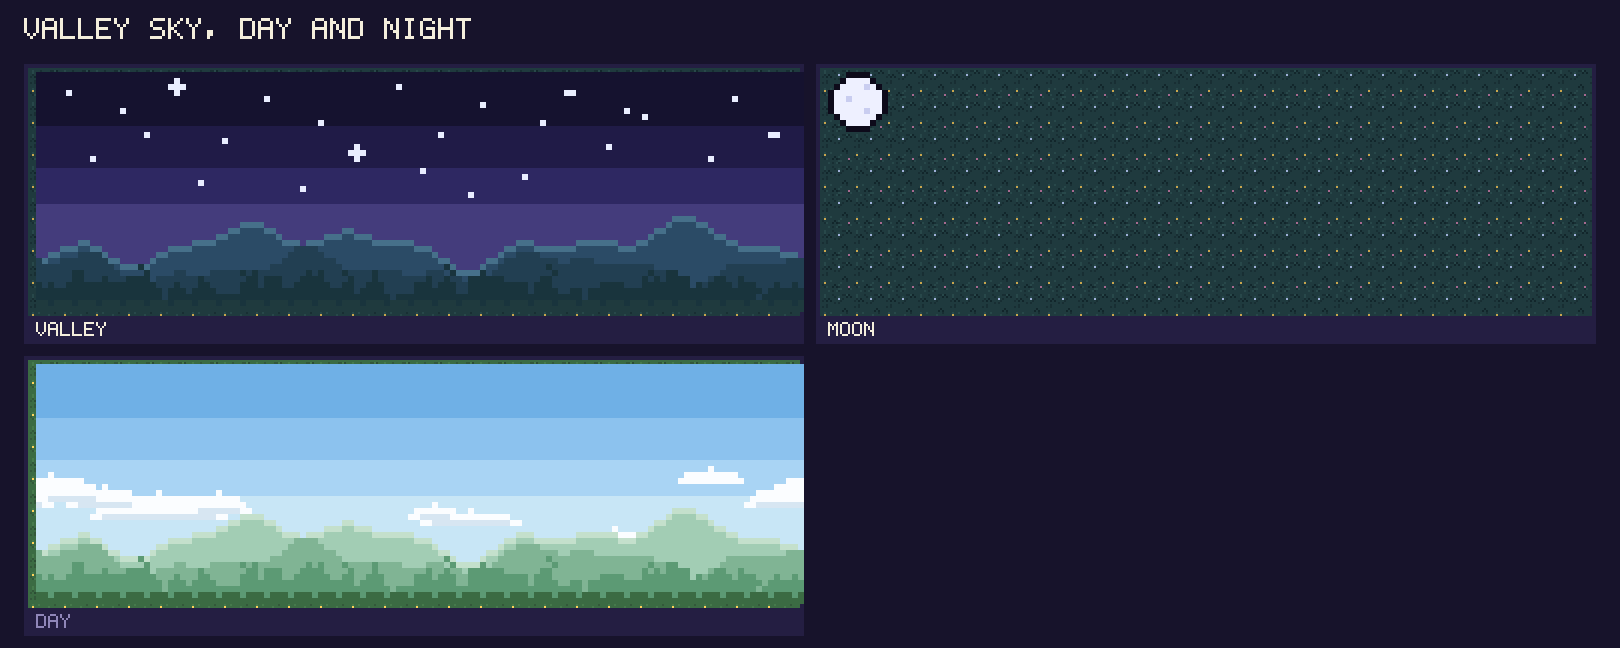
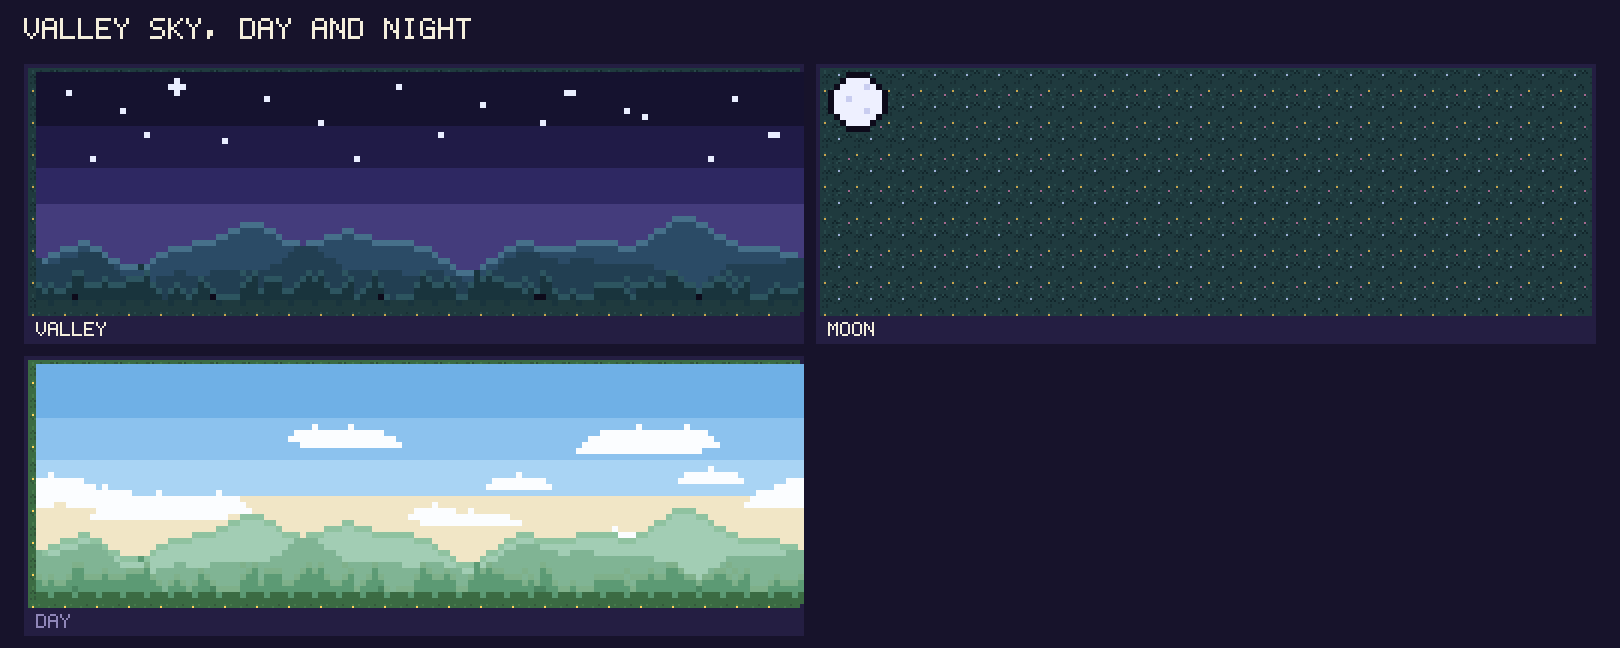
valley-sky: widen sprite cap to 128, seam variants, calmer treeline, more clouds
Claude-Session: https://claude.ai/code/session_01TqJ8tUAM4Muj4eb7wE4uc8

diff --git a/apps/activity/src/sprites/concepts/valley-sky.ts b/apps/activity/src/sprites/concepts/valley-sky.ts
@@ -5,9 +5,9 @@
  * one flat colour (the scene repeats it upward behind the HUD); its bottom rows are far hills and a hazy
  * treeline that end in the grass's own colours, so the strip runs into the meadow. No landmark, no place.
  * The main palette is night (4 hard bands, stars); `alts.day` recolours the same pixels: the star keys
- * (`s t u`) become the band colour, and the cloud keys (`q r w`), which are band colours at night, become
- * cloud white and shade. Keys: `A B C D` sky bands top to horizon, `h m i j g` far hill, its rim, mid hill,
- * treeline and the grass colour of the last rows. The optional `moon` (10 x 10) is placed once by the scene.
+ * (`s t`) become the band colour, and the cloud keys (`p q r`), which are band colours at night, become
+ * cloud white. Keys: `A B C D` sky bands top to horizon, `h m i j n g` far hill, its rim, mid hill,
+ * treeline, its lit rim and the grass colour of the last rows. The optional `moon` (10 x 10) is placed once by the scene.
  * Generated by a script from wrapped sine hills, kept as data like any other sprite.
  */
 import type { SpriteDef } from '../sprite-data';
@@ -25,34 +25,34 @@ const VALLEY_ROWS: readonly string[] = [
   'AAAAAAAAAAAAAAAAAAAAAAAAAAAAAAAAAAAAAAAAAAAAAAAAAAAAAAAAAAAAAAAAAAAAAAAAAAAAAAAAAAAAAAAAAAAAAAAAAAAAAsAAAAAAAAAAAAAAAAAAAAAAAAAA',
   'AAAAAAAAAAAAAAAAAAAAAAAAAAAAAAAAAAAAAAAAAAAAAAAsAAAAAAAAAAAAAAAAAAAAAAAAAAAAAAAAAAAAsAAAAAAAAAAAAAAAAAAAAAAAAAAAAAAAAAAAAAAAAAAA',
   'BBBBBBBBBBBBBBBBBBBBBBBBBBBBBBBBBBBBBBBBBBBBBBBBBBBBBBBBBBBBBBBBBBBBBBBBBBBBBBBBBBBBBBBBBBBBBBBBBBBBBBBBBBBBBBBBBBBBBBBBBBBBBBBB',
-  'BBBBBBBBBBBBBBBBBBtBBBBBBBBBBBBBBBBBBBBBBBBBBBBBBBBBBBBBBBBBBBBBBBBtBBBBBBBBBBBBBBBBBBBBBBBBBBBBBBBBBBBBBBBBBBBBBBBBBBBBBBttBBBB',
-  'BBBBBBBBBBBBBBBBBBBBBBBBBBBBBBBtBBBBBBBBBBBBBBBBBBBBBBBBBBBBBBBBBBBBBBBBBBBBBBBBBBBBBBBBBBBBBBBBBBBBBBBBBBBBBBBBBBBBBBBBBBBBBBBB',
-  'BBBBBBBBBBBBBBBBBBBBBBBBBBBBBBBBBBBBBBBBBBBBBBBBBBBBBtBBBBBBBBBBBBBBBBBBBBBBBBBBBBBBBBBBBBBBBBBtBBBBBBBBBBBBBBBBBBBBBBBBBBBBBBBB',
-  'BBBBBBBBBBBBBBBBBBBBBBBBBBBBBBBBBBBBBBBBBBBBBBBBBBBBtttBBBBBBBBBBBBBBBBBBBBBBBBBBBBBBBBBBBBBBBBBBBBBBBBBBBBBBBBBBBBBBBBBBBBBBBBB',
-  'BBBBBBBBBtBBBBBBBBBBBBBBBBBBBBBBBBBBBBBBBBBBBBBBBBBBBtBBBBBBBBBBBBBBBBBBBBBBBBBBBBBBBBBBBBBBBBBBBBBBBBBBBBBBBBBBtBBBBBBBBBBBBBBB',
+  'BBBBBBBBBBBBBBBBBBtBBBBBBBBBBBBBBBBBBBBBBBBBBBpBBBBBpBBBBBBBBBBBBBBtBBBBBBBBBBBBBBBBBBBBBBBBBBBBBBBBpBBBBBBBpBBBBBBBBBBBBBttBBBB',
+  'BBBBBBBBBBBBBBBBBBBBBBBBBBBBBBBtBBBBBBBBBBBpppppppppppppppBBBBBBBBBBBBBBBBBBBBBBBBBBBBBBBBBBBBppppppppppppppppppBBBBBBBBBBBBBBBB',
+  'BBBBBBBBBBBBBBBBBBBBBBBBBBBBBBBBBBBBBBBBBBppppppppppppppppppBBBBBBBBBBBBBBBBBBBBBBBBBBBBBBBBpppppppppppppppppppppBBBBBBBBBBBBBBB',
+  'BBBBBBBBBBBBBBBBBBBBBBBBBBBBBBBBBBBBBBBBBBBBpppppppppppppppppBBBBBBBBBBBBBBBBBBBBBBBBBBBBBBpppppppppppppppppppppppBBBBBBBBBBBBBB',
+  'BBBBBBBBBtBBBBBBBBBBBBBBBBBBBBBBBBBBBBBBBBBBBBBBBBBBBtBBBBBBBBBBBBBBBBBBBBBBBBBBBBBBBBBBBBpppppppppppppppppppppBtBBBBBBBBBBBBBBB',
   'BBBBBBBBBBBBBBBBBBBBBBBBBBBBBBBBBBBBBBBBBBBBBBBBBBBBBBBBBBBBBBBBBBBBBBBBBBBBBBBBBBBBBBBBBBBBBBBBBBBBBBBBBBBBBBBBBBBBBBBBBBBBBBBB',
-  'CCCCCCCCCCCCCCCCCCCCCCCCCCCCCCCCCCCCCCCCCCCCCCCCCCCCCCCCCCCCCCCCuCCCCCCCCCCCCCCCCCCCCCCCCCCCCCCCCCCCCCCCCCCCCCCCCCCCCCCCCCCCCCCC',
-  'CCCCCCCCCCCCCCCCCCCCCCCCCCCCCCCCCCCCCCCCCCCCCCCCCCCCCCCCCCCCCCCCCCCCCCCCCCCCCCCCCuCCCCCCCCCCCCCCCCCCCCCCCCCCCCCCqCCCCCCCCCCCCCCC',
-  'CCqCCCCCCCCCCCCCCCCCCCCCCCCuCCCCCCCCCCCCCCCCCCCCCCCCCCCCCCCCCCCCCCCCCCCCCCCCCCCCCCCCCCCCCCCCCCCCCCCCCCCCCCCCqqqqqqqqqCCCCCCCCCCC',
-  'qqqqqqqqCCCCCCCCCCCCCCCCCCCCCCCCCCCCCCCCCCCCuCCCCCCCCCCCCCCCCCCCCCCCCCCCCCCCCCCCCCCCCCCCCCCCCCCCCCCCCCCCCCCqqqqqqqqqqqCCCCCCCqqq',
-  'qqqqqqqqqqCqCCCCCCCCCCCCCCCCCCCCCCCCCCCCCCCCCCCCCCCCCCCCCCCCCCCCCCCCCCCCuCCCCCCCCCCCCCCCCCCCCCCCCCCCCCCCCCCCCCCCCCCCCCCCCCCqqqqq',
+  'CCCCCCCCCCCCCCCCCCCCCCCCCCCCCCCCCCCCCCCCCCCCCCCCCCCCCCCCCCCCCCCCCCCCCCCCCCCCCCCCCCCCCCCCCCCCCCCCCCCCCCCCCCCCCCCCCCCCCCCCCCCCCCCC',
+  'CCCCCCCCCCCCCCCCCCCCCCCCCCCCCCCCCCCCCCCCCCCCCCCCCCCCCCCCCCCCCCCCCCCCCCCCCCCCCCCCCCCCCCCCCCCCCCCCCCCCCCCCCCCCCCCCqCCCCCCCCCCCCCCC',
+  'CCqCCCCCCCCCCCCCCCCCCCCCCCCCCCCCCCCCCCCCCCCCCCCCCCCCCCCCCCCCCCCCCCCCCCCCCCCCCCCCqCCCCCCCCCCCCCCCCCCCCCCCCCCCqqqqqqqqqCCCCCCCCCCC',
+  'qqqqqqqqCCCCCCCCCCCCCCCCCCCCCCCCCCCCCCCCCCCCCCCCCCCCCCCCCCCCCCCCCCCCCCCCCCCCqqqqqqqqqCCCCCCCCCCCCCCCCCCCCCCqqqqqqqqqqqCCCCCCCqqq',
+  'qqqqqqqqqqCqCCCCCCCCCCCCCCCCCCCCCCCCCCCCCCCCCCCCCCCCCCCCCCCCCCCCCCCCCCCCCCCqqqqqqqqqqqCCCCCCCCCCCCCCCCCCCCCCCCCCCCCCCCCCCCCqqqqq',
   'qqqqqqqqqqqqqqqqCCCCqCCCCCCCCCqCCCCCCCCCCCCCCCCCCCCCCCCCCCCCCCCCCCCCCCCCCCCCCCCCCCCCCCCCCCCCCCCCCCCCCCCCCCCCCCCCCCCCCCCCqqqqqqqq',
-  'rrwwwwwwwwrrrrrrrrrrrrrrrrrrrrrrrrDDDDDDDDDDDDDDDDDDDDDDDDDDDDDDDDDDDDDDDDDDDDDDDDDDDDDDDDDDDDDDDDDDDDDDDDDDDDDDDDDDDDDrrrrrrrrr',
-  'wrrDDrrwwwwwwwwwrrrrrrrrrrrrrrrrrrrDDDDDDDDDDDDDDDDDDDDDDDDDDDDDDDrDDDDDDDDDDDDDDDDDDDDDDDDDDDDDDDDDDDDDDDDDDDDDDDDDDDrrwwwwwwww',
-  'DDDDDDDDDDrrrrrrrrrrrrrrrrrwwwwwwwrrDDDDDDDDDDDDDDDDDDDDDDDDDDDrrrrrrrDDrDDDDDDDDDDDDDDDDDDDDDDDDDDDDDDDDDmmmmDDDDDDDDDDDDDDDDDD',
-  'DDDDDDDDDrrwwwwwwwwwwwwwwwwwwwrrDDmmmmDDDDDDDDDDDDDDDDDDDDDDDDrrwwwwwrrrrrrrrrrDDDDDDDDDDDDDDDDDDDDDDDDDDmhhhhmmDDDDDDDDDDDDDDDD',
-  'DDDDDDDDDDDDDDDDDDDDDDDDDDDDDDDDmmhhhhmmDDDDDDDDDDDmmDDDDDDDDDDDrrwwwwwwwwwwwwwrrDDDDDDDDDDDDDDDDDDDDDDmmhhhhhhhmDDDDDDDDDDDDDDD',
+  'rrrrrrrrrrrrrrrrrrrrrrrrrrrrrrrrrrDDDDDDDDDDDDDDDDDDDDDDDDDDDDDDDDDDDDDDDDDDDDDDDDDDDDDDDDDDDDDDDDDDDDDDDDDDDDDDDDDDDDDrrrrrrrrr',
+  'rrrDDrrrrrrrrrrrrrrrrrrrrrrrrrrrrrrDDDDDDDDDDDDDDDDDDDDDDDDDDDDDDDrDDDDDDDDDDDDDDDDDDDDDDDDDDDDDDDDDDDDDDDDDDDDDDDDDDDrrrrrrrrrr',
+  'DDDDDDDDDDrrrrrrrrrrrrrrrrrrrrrrrrrrDDDDDDDDDDDDDDDDDDDDDDDDDDDrrrrrrrDDrDDDDDDDDDDDDDDDDDDDDDDDDDDDDDDDDDmmmmDDDDDDDDDDDDDDDDDD',
+  'DDDDDDDDDrrrrrrrrrrrrrrrrrrrrrrrDDmmmmDDDDDDDDDDDDDDDDDDDDDDDDrrrrrrrrrrrrrrrrrDDDDDDDDDDDDDDDDDDDDDDDDDDmhhhhmmDDDDDDDDDDDDDDDD',
+  'DDDDDDDDDDDDDDDDDDDDDDDDDDDDDDDDmmhhhhmmDDDDDDDDDDDmmDDDDDDDDDDDrrrrrrrrrrrrrrrrrDDDDDDDDDDDDDDDDDDDDDDmmhhhhhhhmDDDDDDDDDDDDDDD',
   'DDDDDDDDDDDDDDDDDDDDDDDDDDDDDDmmhhhhhhhhmDDDDDDDmmmhhmmmDDDDDDDDDDDDDDDDDDDDDDDDDDDDDDDDDDDDDDDDrDDDDDmhhhhhhhhhhmmDDDDDDDDDDDDD',
   'DDDDDDDmmDDDDDDDDDDDDDDDDDmmmmhhhhhhhhhhhmmmDmmmhhhhhhhhmmmmmmmDDDDDDDDDDDDDDDDDmmmDDDDDDDmmmmmmmrrrmmhhhhhhhhhhhhhmmDDDDDDDDDDD',
   'DDDDmmmhhmmDDDDDDDDDDDmmmmhhhhhhhhhhhhhhhhhiiiihhhhhhhhhhhhhhhhmmmDDDDDDDDDDDDmmhhhmmmmmmmhhhhhhhmmmhhhhhhhhhhhhhhhhhmmmmmmmDDDD',
   'DDmmhhhiiiimDDDDDDDDmmhhhhhhhhhhhhhhhhhhhhiiiiiihhhhhhhhhhhhhhhhhhmDDDDDDDDDDmhhiiiihhhhhhhhhhhhhhhhhhhhhhhhhhhhhhhhhhhhhhhhmmmD',
   'imhhiiiiiiiimmDDDDDmhhhhhhhhhhhhhhhhhhhhhiiiiiiiiihhhhhhhhhhhhhhhhhmmDDDDDDmmhiiiiiiiiihhiiiihhhhhhhhhhhhhhhhhhhhhhhhhhhhhhhhiii',
-  'iiiiiiiiiiiiihmmmjmhhhhhhhhhhhhhhhhhhhhiiiiiiiiiiiihhhhhhhhhhhhhhhhhjmDDDDmhhiiiiiiiijiiiiiiiiiiiiiiiiihhhhhhhhhhhhiiiiiiiiiiiii',
-  'iiiiiijjiiiiiihhhhjhhhhiihhhhiiiiijijiiiiiiiijijiiijiiiijiiiihhhhiiihjmmmmjhiiiiiiiiiijiiiiiiiiiiiiiiijiijjhhhhhhhiiiiiiiiiiiiii',
-  'iiiiiijjiiijiiijjjjhiiiiiiijiiiiiiijjijjjiiijjjjiiiijiiijiiiiiiiijiijiihjjjjjjiiiiiijjiiiiiiiiiiiiiiijijijjjjhhhijjiijiiiiiiiiii',
-  'jijiijjjjjjjjjjjjjjjiiijiiijjiiiiijjjijjjiijjjjjjiijjiijjjiiiiijjjijjjiijjjjjjjjjjijjjiiiiiiiijjjjiiijjjjjjjjhjijjjjijjjiiijiiji',
-  'jjjjjjjjjjjjjjjjjjjjjijjjijjjjiiiijjjjjjjjjjjjjjjjjjjijjjjiiiiijjjjjjjiijjjjjjjjjjijjjjiijjijjjjjjjjjjjjjjjjjjjjjjjjjjjjjijjjjjj',
-  'jjjjjjjjjjjjjjjjjjjjjijjjjjjjjjjjjjjjjjjjjjjjjjjjjjjjjjjjjjijjjjjjjjjjjjjjjjjjjjjjjjjjjjjjjijjjjjjjjjjjjjjjjjjjjjjjjjjjjijjjjjjj',
+  'iiiiiiiiiiiiihmmmjmhhhhhhhhhhhhhhhhhhhhiiiiiiiiiiiihhhhhhhhhhhhhhhhhhmDDDDmhhiiiiiiiiiiiiiiiiiiiiiiiiiihhhhhhhhhhhhiiiiiiiiiiiii',
+  'iiiiiinniiiiiihhhhnhhhhiihhhhiiiiininiiiiiiiininiiiniiiiniiiihhhniiihhmmmjhniiiiiiiiniiiiiiiiiiiiiiiiiiiinnhhhhhhhiniiiiiiiiiiii',
+  'iiiiiijjiiiniiinnnjhiiiiiiiniiiiiiinjinnniiinjnjiiiiniiijiiiiiiijniiniihhjnjnniiiniijniiiiiiiiiiiiniiiniijjnhhhhinnininiiiiiiiii',
+  'niniinjjnnnjnnnjjjjniiiniiijniiiiinjjijjjiinjjjjniinjiinjniiiiinjjnnjniinjjjjjnnninijjiiiiiiinnnnninnnjnnjjjnnhnnjjninjiiiiniiin',
+  'jnjnnjjjjjjjjjjjjjjjninjninjjniiiijjjnjjjnnjjjjjjnnjjinjjjiiiiijjjjjjjiijjjjjjjjjnjnjjniiniiijjjjjnijjjjjjjjjjnjjjjjnjjiiinjnnnj',
+  'jjjjjjkjjjjjjjjjjjjjjijjjnjjjknnnnjjjjjjjjjjjjjjjjjjjnjjjkninnnjjjjjjjnnjjjjjjjjjjjkkjjnnjnnnjjjjjjnjjjjjjjjjjkjjjjjjjjnnnjjjjjj',
   'ggjgggjgggjgggjgggjgggjgggjgggjgggjgggjgggjgggjgggjgggjgggjgggjgggjgggjgggjgggjgggjgggjgggjgggjgggjgggjgggjgggjgggjgggjgggjgggjg',
   'gggggggggggggggggggggggggggggggggggggggggggggggggggggggggggggggggggggggggggggggggggggggggggggggggggggggggggggggggggggggggggggggg',
 ];
@@ -64,33 +64,35 @@ const VALLEY_PALETTE: Readonly<Record<string, string>> = {
   D: '#443c7c',
   s: '#e9edff',
   t: '#e9edff',
-  u: '#e9edff',
   q: '#2e2862',
   r: '#443c7c',
-  w: '#443c7c',
+  p: '#201b47',
+  n: '#2d5560',
   m: '#46708a',
   h: '#2b4b66',
   i: '#223f52',
   j: '#19343d',
   g: '#1f3a3e',
+  k: '#0d0a1a',
 };
 
 const VALLEY_DAY: Readonly<Record<string, string>> = {
   A: '#6fb0e6',
   B: '#8cc2ee',
   C: '#a9d4f4',
-  D: '#c8e6f6',
+  D: '#f1e6c6',
   s: '#6fb0e6',
   t: '#8cc2ee',
-  u: '#a9d4f4',
   q: '#fbfdff',
   r: '#fbfdff',
-  w: '#d7e6f2',
-  m: '#c4e0cc',
+  p: '#fbfdff',
+  n: '#7fb08a',
+  m: '#8fc2a0',
   h: '#a2cdb4',
   i: '#80b494',
   j: '#5c9a74',
   g: '#3b6b43',
+  k: '#4a8560',
 };
 
 const MOON_ROWS: readonly string[] = [
@@ -118,8 +120,8 @@ const NIGHT_GRASS: Readonly<Record<string, string>> = {
 };
 
 const VALLEY: SpriteDef = { palette: VALLEY_PALETTE, rows: VALLEY_ROWS };
-/** The strip repeated three times sideways, to judge the seam and the repeat. */
-const TILED_ROWS = VALLEY_ROWS.map((r) => r + r + r);
+/** The last 32 columns then the first 32, so the join of two repeats is in the middle of the view. */
+const SEAM_ROWS = VALLEY_ROWS.map((r) => r.slice(96) + r.slice(0, 32));
 
 export const VALLEY_SKY_CONCEPTS: ConceptSet = {
   id: 'valley-sky',
@@ -129,7 +131,7 @@ export const VALLEY_SKY_CONCEPTS: ConceptSet = {
   status: 'draft',
   notes: [
     "Used by the valley prototype's place screens (`apps/activity/src/proto/valley/glow-scene-art.ts`, `skyPlacements`, poster mode `sky`, branch `ccr-93a1de17-yutb1a`).",
-    'One strip, 128 x 40, tiles sideways (see the `tiled` and `tiled-day` rows: the join is at x 128 and 256). Top row is one flat colour, repeat it upward behind the HUD. Bottom row is the grass colour of the world-map tile.',
+    'One strip, 128 x 40, tiles sideways (see the `seam` and `seam-day` rows: the join is in the middle). Top row is one flat colour, repeat it upward behind the HUD. Bottom row is the grass colour of the world-map tile.',
     'Main palette is night (4 bands, stars), `alts.day` is the same pixels: stars vanish into the band, clouds appear. Clouds sit across the seam on purpose. The optional `moon` sprite is placed once by the scene, never tiled.',
     'Per-location variants (forest, coast, mountains) later: same bands, a different horizon in the bottom rows.',
   ],
@@ -144,8 +146,8 @@ export const VALLEY_SKY_CONCEPTS: ConceptSet = {
       sprite: VALLEY,
       alts: { day: VALLEY_DAY },
       variants: {
-        tiled: { palette: VALLEY_PALETTE, rows: TILED_ROWS },
-        'tiled-day': { palette: { ...VALLEY_PALETTE, ...VALLEY_DAY }, rows: TILED_ROWS },
+        seam: { palette: VALLEY_PALETTE, rows: SEAM_ROWS },
+        'seam-day': { palette: { ...VALLEY_PALETTE, ...VALLEY_DAY }, rows: SEAM_ROWS },
       },
     },
     moon: {

diff --git a/apps/activity/src/sprites/sprite-data.ts b/apps/activity/src/sprites/sprite-data.ts
@@ -29,7 +29,8 @@ interface ParsedSprite {
 
 const TRANSPARENT = '.';
 const COLOUR = /^#(?:[0-9a-fA-F]{3}|[0-9a-fA-F]{6})$/;
-const MAX_SIZE = 64;
+const MAX_WIDTH = 128;
+const MAX_HEIGHT = 64;
 
 export class SpriteError extends Error {}
 
@@ -42,8 +43,8 @@ export function spriteSize(def: SpriteDef): { width: number; height: number } {
 /** Throws a `SpriteError` when the data is not a well-formed sprite (of `size`, when given). */
 export function validateSprite(def: SpriteDef, size?: { width: number; height: number }): void {
   if (def.rows.length === 0) throw new SpriteError('Sprite has no rows.');
-  if (def.rows.length > MAX_SIZE)
-    throw new SpriteError(`Sprite is taller than ${String(MAX_SIZE)}.`);
+  if (def.rows.length > MAX_HEIGHT)
+    throw new SpriteError(`Sprite is taller than ${String(MAX_HEIGHT)}.`);
   const rowWidth = def.rows[0]?.length ?? 0;
   if (rowWidth === 0) throw new SpriteError('Sprite rows are empty.');
   for (const [y, row] of def.rows.entries()) {
@@ -68,7 +69,7 @@ export function validateSprite(def: SpriteDef, size?: { width: number; height: n
     }
   }
   const actual = spriteSize(def);
-  if (actual.width > MAX_SIZE) throw new SpriteError(`Sprite is wider than ${String(MAX_SIZE)}.`);
+  if (actual.width > MAX_WIDTH) throw new SpriteError(`Sprite is wider than ${String(MAX_WIDTH)}.`);
   if (size !== undefined && (actual.width !== size.width || actual.height !== size.height)) {
     throw new SpriteError(
       `Sprite is ${String(actual.width)}x${String(actual.height)}, expected ${String(size.width)}x${String(size.height)}.`,

diff --git a/apps/activity/src/sprites/sprite-data.test.ts b/apps/activity/src/sprites/sprite-data.test.ts
@@ -89,12 +89,16 @@ describe('validateSprite', () => {
     expect(() => validateSprite({ palette: {}, rows: ['c'] })).toThrow(/not in the palette/);
   });
 
+  it('accepts a sprite 128 wide', () => {
+    expect(() => validateSprite({ palette: {}, rows: ['.'.repeat(128)] })).not.toThrow();
+  });
+
   it('rejects very large sprites', () => {
-    expect(() => validateSprite({ palette: {}, rows: ['.'.repeat(65)] })).toThrow(/wider/);
+    expect(() => validateSprite({ palette: {}, rows: ['.'.repeat(129)] })).toThrow(/wider/);
     expect(() =>
       validateSprite({ palette: {}, rows: Array.from({ length: 65 }, () => '.') }),
     ).toThrow(/taller/);
-    expect(() => validateSprite({ palette: {}, rows: ['.'.repeat(33)], mirror: true })).toThrow(
+    expect(() => validateSprite({ palette: {}, rows: ['.'.repeat(65)], mirror: true })).toThrow(
       /wider/,
     );
   });

diff --git a/docs/art/README.md b/docs/art/README.md
@@ -200,9 +200,9 @@ Status: **liked** means Misa approved the look; **draft** means he has not said 
 - **Status:** draft
 - **Requested:** 2026-11-03 (Q50, via the valley session): place screens drop the poster; Misa likes "the added depth of having a sky in the background ... We'd just need the proper sky images. Eventually the sky backdrop could vary based on location."
 - **Source:** `apps/activity/src/sprites/concepts/valley-sky.ts` (draw it with `pnpm art valley-sky`)
-- **Sheet of:** `49720539962b`
+- **Sheet of:** `f680bd626266`
 - Used by the valley prototype's place screens (`apps/activity/src/proto/valley/glow-scene-art.ts`, `skyPlacements`, poster mode `sky`, branch `ccr-93a1de17-yutb1a`).
-- One strip, 128 x 40, tiles sideways (see the `tiled` and `tiled-day` rows: the join is at x 128 and 256). Top row is one flat colour, repeat it upward behind the HUD. Bottom row is the grass colour of the world-map tile.
+- One strip, 128 x 40, tiles sideways (see the `seam` and `seam-day` rows: the join is in the middle). Top row is one flat colour, repeat it upward behind the HUD. Bottom row is the grass colour of the world-map tile.
 - Main palette is night (4 bands, stars), `alts.day` is the same pixels: stars vanish into the band, clouds appear. Clouds sit across the seam on purpose. The optional `moon` sprite is placed once by the scene, never tiled.
 - Per-location variants (forest, coast, mountains) later: same bands, a different horizon in the bottom rows.
 
